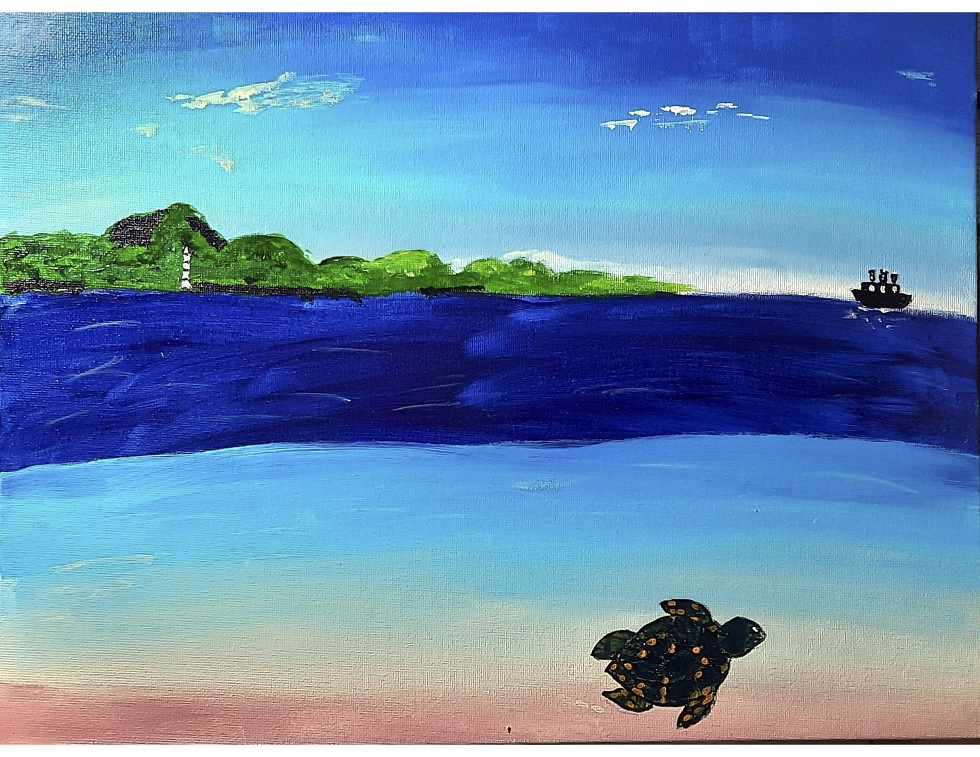
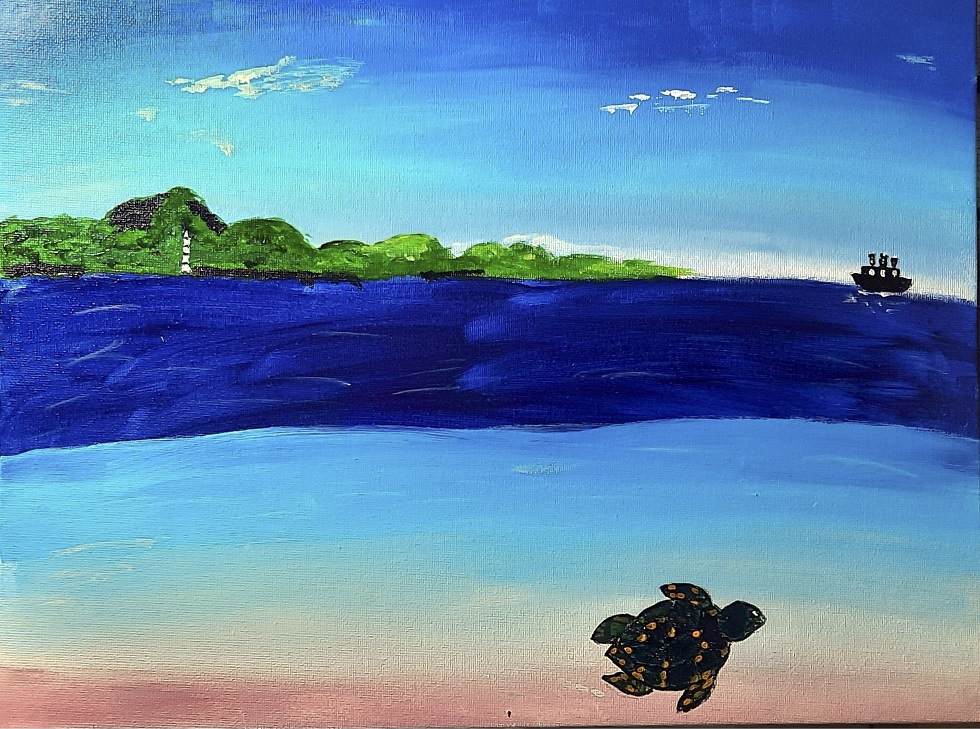
minor fix

diff --git a/CSS/project.html b/CSS/project.html
@@ -39,7 +39,7 @@
             <a href="#">
                 <div class="news-card">
                     <div class="image">
-                        <img src="img/news2.jpg" alt="news">
+                        <img src="img/news1.jpg" alt="news">
                     </div>
                     <div class="card-body">
                         <h2>News Title</h2>
@@ -63,7 +63,7 @@
             <a href="#">
                 <div class="news-card">
                     <div class="image">
-                        <img src="img/news2.jpg" alt="news">
+                        <img src="img/news3.jpg" alt="news">
                     </div>
                     <div class="card-body">
                         <h2>News Title</h2>
